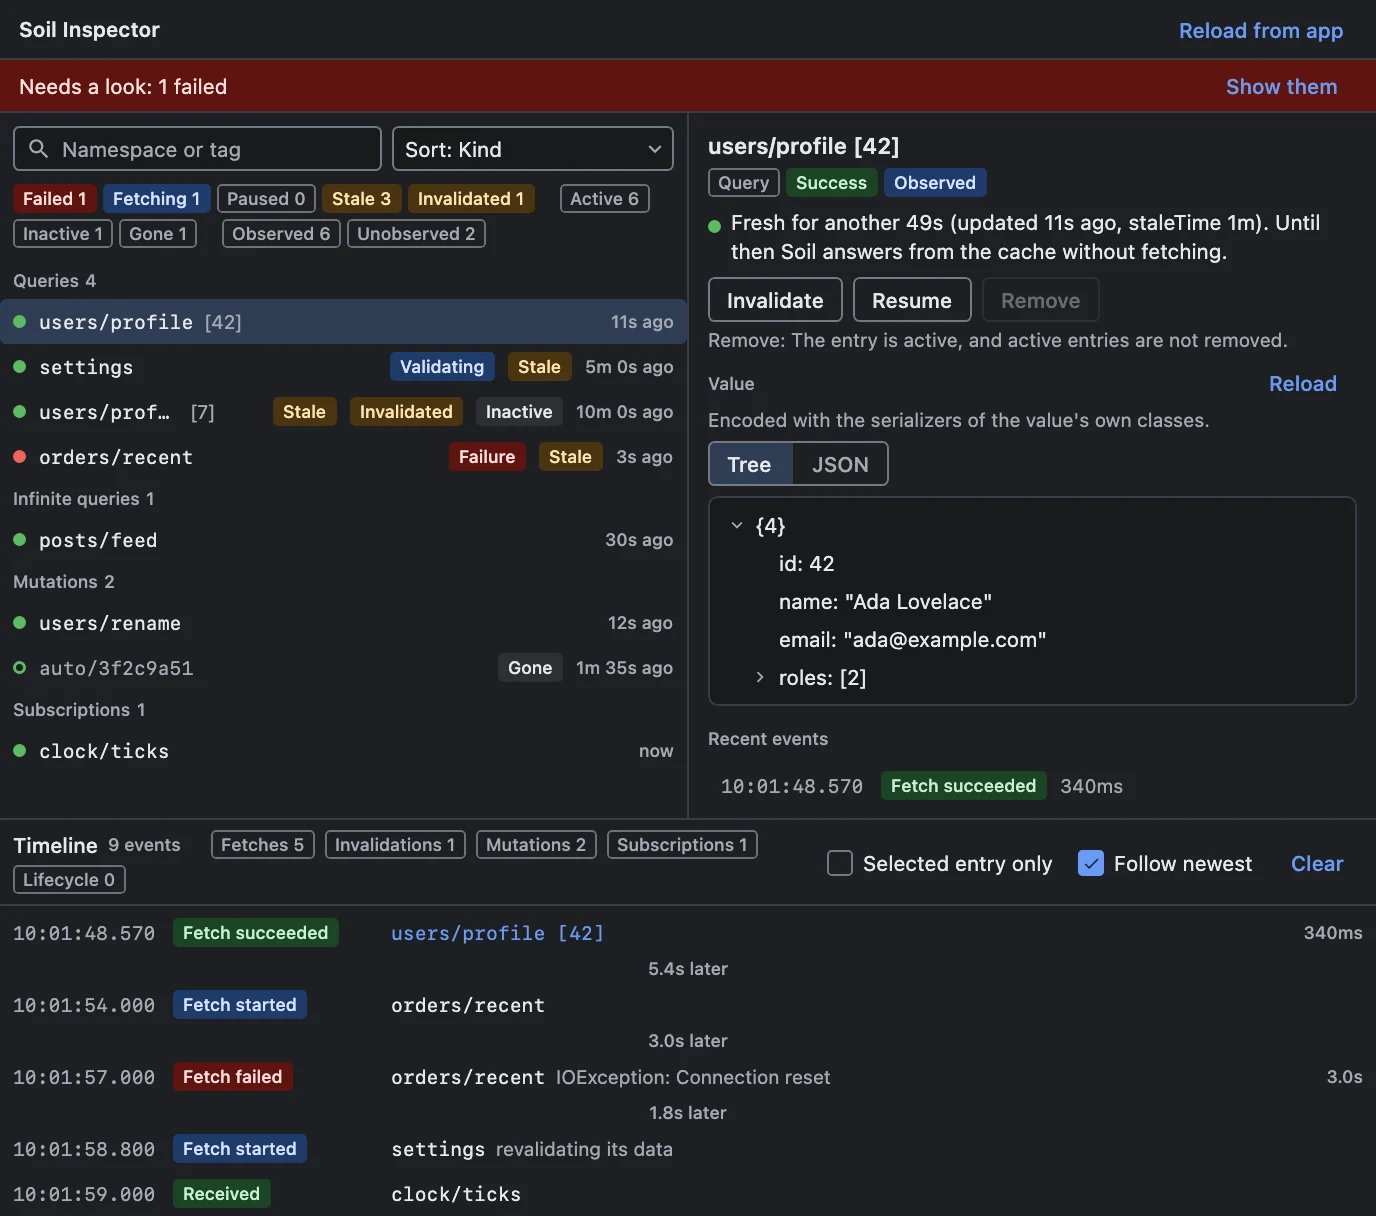
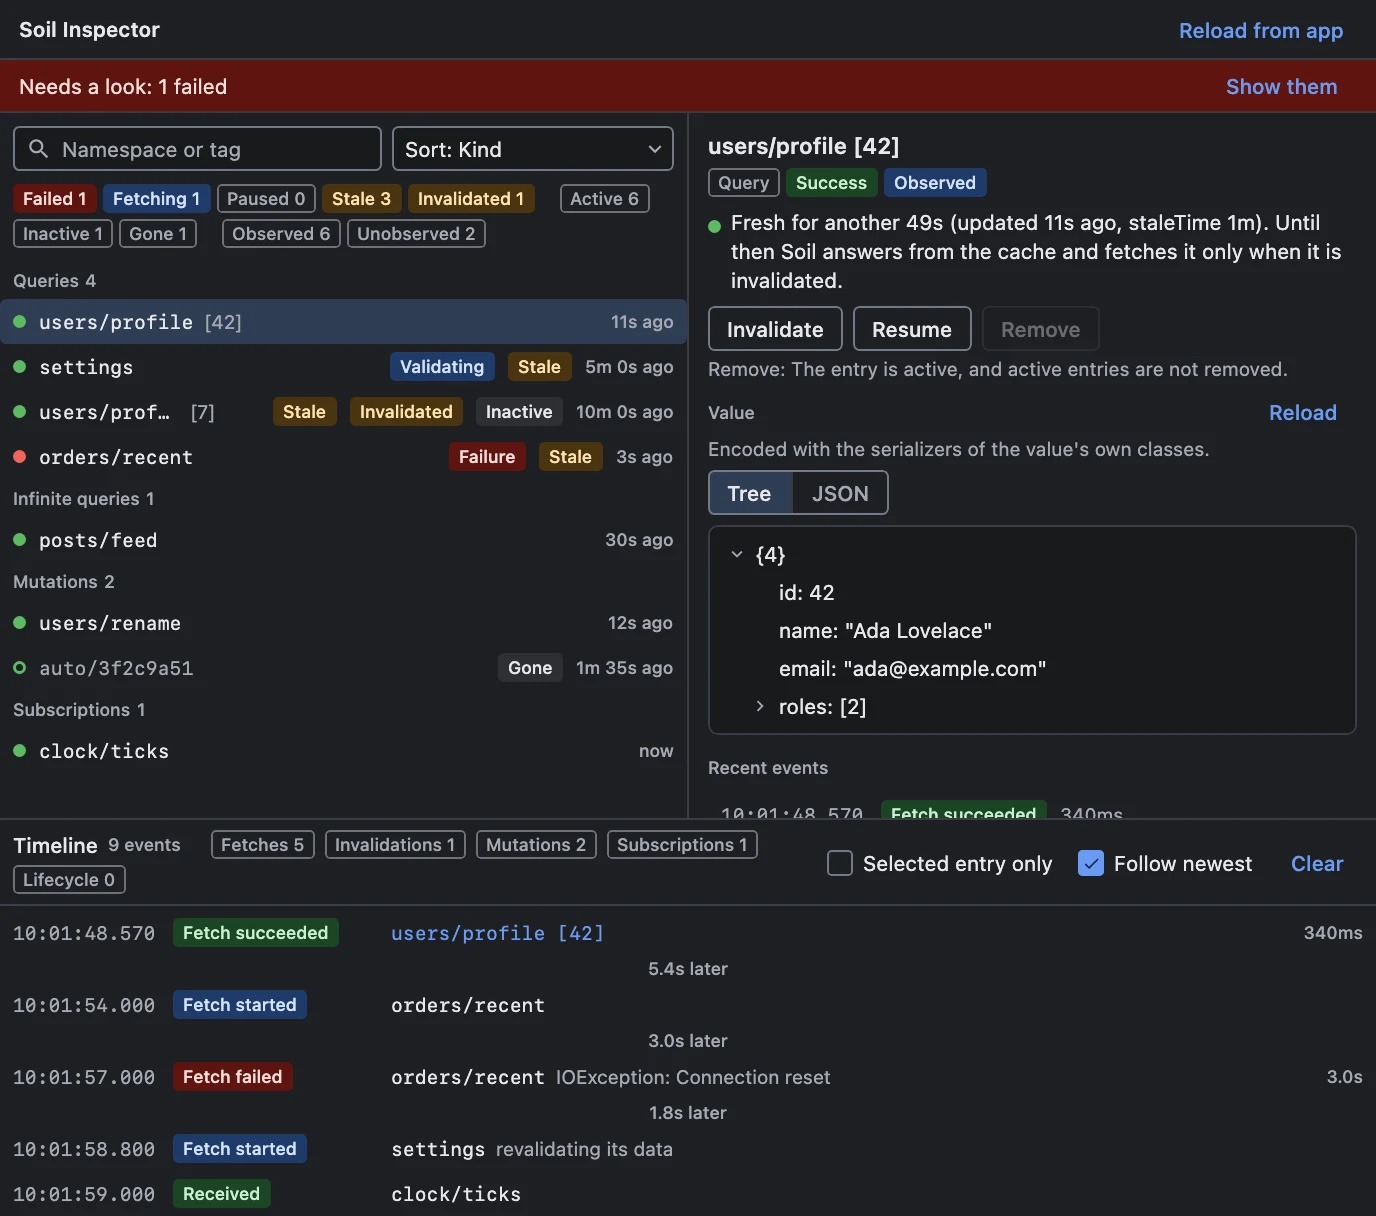
fix(soil): say a fresh query fetches only when invalidated, and that invalidation refetches observed queries

Changed region(s): [[0.5, 0.2188, 0.9688, 0.6875], [0.7812, 0.1875, 0.9688, 0.2188]]

diff --git a/jetwhale-plugins/soil/host/src/main/kotlin/com/kitakkun/jetwhale/plugins/soil/host/SoilEntryExplainer.kt b/jetwhale-plugins/soil/host/src/main/kotlin/com/kitakkun/jetwhale/plugins/soil/host/SoilEntryExplainer.kt
@@ -144,7 +144,7 @@ internal class SoilEntryExplainer(
         return when {
             isNeverReached(state.staleAt, agentNowEpochSeconds) -> SoilEntryNote("Never goes stale$staleTime: Soil fetches it again only when it is invalidated.", JwTone.Neutral)
 
-            !state.isStaleAt(agentNowEpochSeconds) -> SoilEntryNote("Fresh for another ${describeSeconds(state.staleAt - agentNowEpochSeconds)} ($updated$staleTime). Until then Soil answers from the cache without fetching.", JwTone.Success)
+            !state.isStaleAt(agentNowEpochSeconds) -> SoilEntryNote("Fresh for another ${describeSeconds(state.staleAt - agentNowEpochSeconds)} ($updated$staleTime). Until then Soil answers from the cache and fetches it only when it is invalidated.", JwTone.Success)
 
             else -> {
                 val focus = entry.options["revalidateOnFocus"]?.let { "revalidateOnFocus $it" }

diff --git a/jetwhale-plugins/soil/host/src/test/kotlin/com/kitakkun/jetwhale/plugins/soil/host/SoilEntryExplainerTest.kt b/jetwhale-plugins/soil/host/src/test/kotlin/com/kitakkun/jetwhale/plugins/soil/host/SoilEntryExplainerTest.kt
@@ -22,7 +22,7 @@ class SoilEntryExplainerTest {
     @Test
     fun `a fresh query says how long it stays fresh and why it is not fetched`() {
         assertEquals(
-            "Fresh for another 49s (updated 11s ago, staleTime 1m). Until then Soil answers from the cache without fetching.",
+            "Fresh for another 49s (updated 11s ago, staleTime 1m). Until then Soil answers from the cache and fetches it only when it is invalidated.",
             explainerOf().notesOn(listed(profile)).single().text,
         )
     }

diff --git a/jetwhale-plugins/soil/protocol/src/commonMain/kotlin/com/kitakkun/jetwhale/plugins/soil/protocol/SoilModels.kt b/jetwhale-plugins/soil/protocol/src/commonMain/kotlin/com/kitakkun/jetwhale/plugins/soil/protocol/SoilModels.kt
@@ -181,7 +181,7 @@ sealed interface SoilEntryState {
 /** What the host can ask Soil to do with an entry. */
 @Serializable
 enum class SoilEntryAction {
-    /** Marks a query invalidated, active or not; an active one refetches. */
+    /** Marks a query invalidated, active or not; an observed one refetches right away, any other when a screen next observes it. */
     INVALIDATE,
 
     /** Asks an observed query to fetch if its data needs it, or an observed subscription to restart. */
